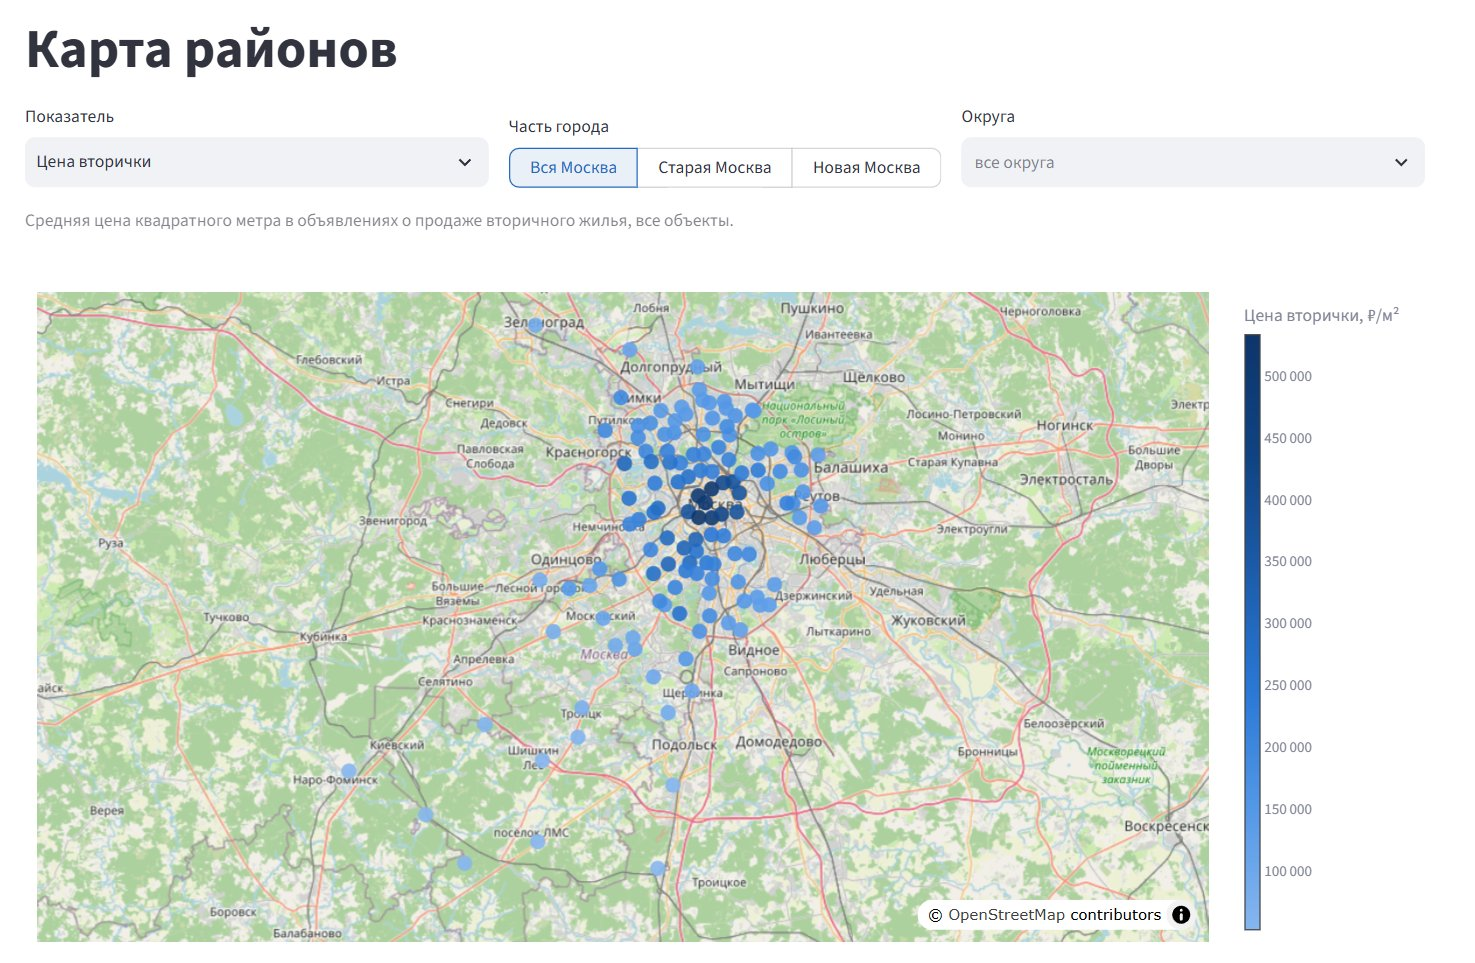
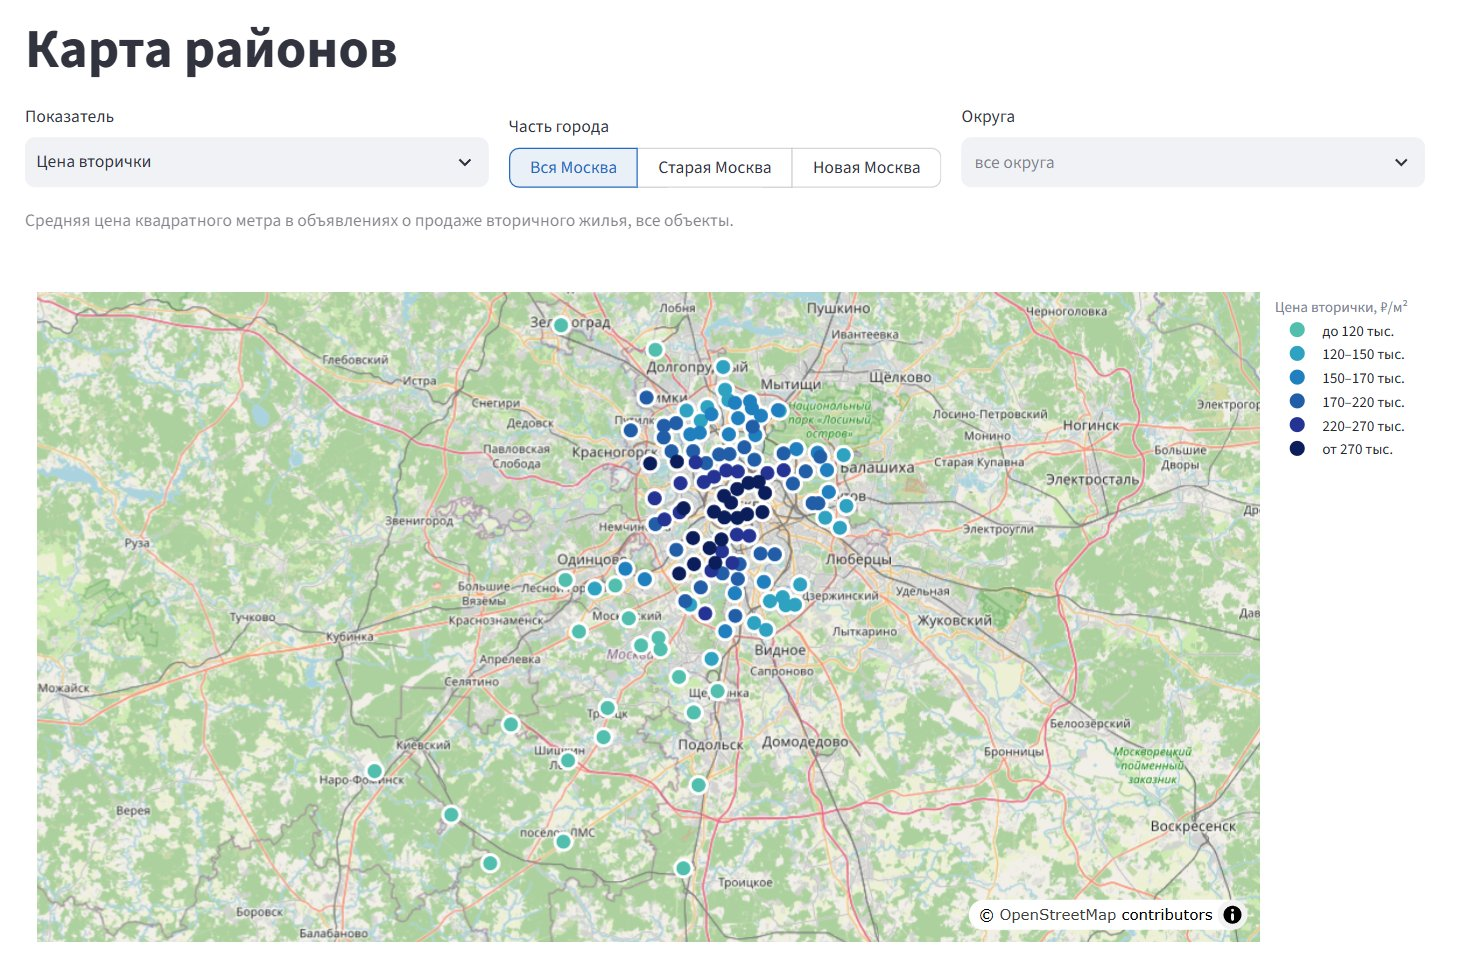
Use balanced colour classes on the district map
Six quantile classes with round bounds instead of a continuous scale stretched by a few expensive central districts; legend with ranges, white marker halo.

diff --git a/dashboard/charts.py b/dashboard/charts.py
@@ -3,14 +3,15 @@
 
 Правила оформления общие для всех графиков:
 - старая и Новая Москва всегда одного и того же цвета (PART_COLORS), на любой странице
-- величина на карте — одна синяя шкала от светлого к тёмному
+- величина на карте — классы с примерно равным числом районов, от бирюзового к тёмно-синему
 - одна ось Y на график: разные единицы измерения — разные графики, а не вторая ось
 - у каждой точки подсказка при наведении; таблица с теми же числами — на странице рядом
 """
 
 import plotly.graph_objects as go
 
-from dashboard.data import METRICS, NEUTRAL, PART_COLORS, PARTS, SEQUENTIAL, fmt_num
+from dashboard.data import (CLASS_COLORS, METRICS, NEUTRAL, PART_COLORS, PARTS, assign_classes,
+                            class_labels, fmt_num)
 
 MOSCOW_CENTER = {'lat': 55.60, 'lon': 37.40}
 
@@ -40,34 +41,47 @@ def _digits(metric):
     return 1 if metric in ('payback_years', 'newbuild_premium_pct', 'to_center_km') else 0
 
 
-def district_map(districts, metric):
-    """Районы точками на карте, цвет — значение метрики; районы без значения серые"""
-    digits = _digits(metric)
-    has_value = districts[metric].notna()
-    fig = go.Figure()
+def district_map(districts, metric, edges):
+    """
+    Районы точками на карте, цвет — класс значения метрики
 
-    for subset, is_empty in [(districts[~has_value], True), (districts[has_value], False)]:
+    edges — границы классов, посчитанные по всем районам (class_edges), а не по
+    отфильтрованным: при смене фильтра район сохраняет свой цвет. Точное значение —
+    в подсказке; щелчок по классу в легенде прячет или показывает его точки
+    """
+    digits = _digits(metric)
+    classes = assign_classes(districts[metric], edges)
+    labels = class_labels(edges)
+    step = (len(CLASS_COLORS) - 1) / max(len(labels) - 1, 1)
+    colors = [CLASS_COLORS[round(i * step)] for i in range(len(labels))]
+
+    groups = [(districts[classes.isna()], NEUTRAL, 'нет новостроек')]
+    groups += [(districts[classes == i], colors[i], labels[i]) for i in range(len(labels))]
+
+    fig = go.Figure()
+    # белая подложка под каждой точкой — чтобы точки читались на пёстрой карте
+    fig.add_trace(go.Scattermap(
+        lat=districts['lat'], lon=districts['lon'], mode='markers',
+        marker=dict(size=17, color='white'), hoverinfo='skip', showlegend=False,
+    ))
+    for subset, color, name in groups:
         if subset.empty:
             continue
         values = subset[metric].map(lambda v: fmt_num(v, digits))
-        customdata = list(zip(subset['okrug_ru'], subset['moscow_part'], values))
-        marker = dict(size=13, opacity=0.9)
-        if is_empty:
-            marker['color'] = NEUTRAL
-        else:
-            marker.update(color=subset[metric], colorscale=SEQUENTIAL,
-                          colorbar=dict(title=_metric_title(metric), thickness=12, tickformat=',~f'))
         fig.add_trace(go.Scattermap(
-            lat=subset['lat'], lon=subset['lon'], mode='markers', marker=marker,
-            text=subset['name'], customdata=customdata,
-            name='нет данных' if is_empty else METRICS[metric][0],
+            lat=subset['lat'], lon=subset['lon'], mode='markers',
+            marker=dict(size=12, color=color), name=name,
+            text=subset['name'], customdata=list(zip(subset['okrug_ru'], subset['moscow_part'], values)),
             hovertemplate='<b>%{text}</b> · %{customdata[0]}<br>%{customdata[1]}<br>'
                           + METRICS[metric][0] + ': %{customdata[2]} ' + METRICS[metric][1]
                           + '<extra></extra>',
         ))
 
     fig.update_layout(map=dict(style='open-street-map', center=MOSCOW_CENTER, zoom=7.9))
-    return _layout(fig, height=560, legend=not has_value.all())
+    _layout(fig, height=560)
+    fig.update_layout(legend=dict(orientation='v', yanchor='top', y=1, xanchor='left', x=1.01,
+                                  title=dict(text=_metric_title(metric)), itemsizing='constant'))
+    return fig
 
 
 def district_ranking(districts, metric, top_n, highest=True):

diff --git a/dashboard/data.py b/dashboard/data.py
@@ -20,7 +20,11 @@ PARTS = [OLD, NEW]
 # дальтонизма и контрастны на светлом фоне; тема дашборда закреплена светлой
 PART_COLORS = {OLD: '#2a78d6', NEW: '#eb6834'}
 NEUTRAL = '#898781'
-SEQUENTIAL = ['#86b6ef', '#5598e7', '#2a78d6', '#1c5cab', '#104281', '#0d366b']
+# классы карты: соседние оттенки от бирюзового к тёмно-синему. Один оттенок на шесть
+# ступеней на пёстрой подложке почти не различался; переход через соседние оттенки
+# при подписанной легенде — допустимое исключение. Проверено валидатором палитры:
+# яркость растёт монотонно, соседние ступени различимы, светлая заметна на белом
+CLASS_COLORS = ['#52bfae', '#2fa2c1', '#1f7fbf', '#225ea8', '#253494', '#0b1d5a']
 
 # метрики районов: колонка -> (название, единица, пояснение для читателя)
 METRICS = {
@@ -73,6 +77,58 @@ def fmt_num(value, digits=0):
     if pd.isna(value):
         return '—'
     return f'{value:,.{digits}f}'.replace(',', ' ').replace('.', ',')
+
+
+def _round_edge(value):
+    """Граница класса «круглым» числом: 131 245 -> 130 000, 16.43 -> 16.4"""
+    if abs(value) >= 100:
+        magnitude = 10 ** (len(str(int(abs(value)))) - 2)
+        return round(value / magnitude) * magnitude
+    return round(value, 1)
+
+
+def class_edges(values, n_classes=6):
+    """
+    Внутренние границы классов для карты: в каждом классе примерно поровну районов
+
+    Границы по квантилям, а не равными шагами: цены распределены с длинным хвостом
+    (десяток дорогих районов центра), и при равных шагах почти весь город попал бы
+    в один-два нижних класса. Границы округляются до круглых чисел; совпавшие после
+    округления схлопываются, так что классов может выйти чуть меньше
+    """
+    quantiles = values.dropna().quantile([i / n_classes for i in range(1, n_classes)])
+    edges = []
+    for q in quantiles:
+        edge = _round_edge(q)
+        if not edges or edge > edges[-1]:
+            edges.append(edge)
+    return edges
+
+
+def class_labels(edges):
+    """
+    Подписи классов для легенды: «до 120 тыс.», «120–150 тыс.», …, «от 270 тыс.»
+
+    «тыс.» — только когда все границы от 10 000: у аренды (сотни рублей) подписи
+    вида «870 – 1 тыс.» читались бы хуже полных чисел
+    """
+    in_thousands = min(edges) >= 10_000
+    scale, suffix = (1000, ' тыс.') if in_thousands else (1, '')
+
+    def num(value):
+        value = value / scale
+        return fmt_num(value, 0 if float(value).is_integer() else 1)
+
+    labels = [f'до {num(edges[0])}{suffix}']
+    labels += [f'{num(a)}–{num(b)}{suffix}' for a, b in zip(edges, edges[1:])]
+    labels.append(f'от {num(edges[-1])}{suffix}')
+    return labels
+
+
+def assign_classes(values, edges):
+    """Номер класса для каждого значения (0 — самый низкий), NaN остаётся NaN"""
+    return pd.cut(values, [-float('inf')] + list(edges) + [float('inf')],
+                  labels=False, right=False)
 
 
 def styled_table(df, digits, na_text):

diff --git a/tests/test_dashboard.py b/tests/test_dashboard.py
@@ -13,7 +13,7 @@ import pytest
 from streamlit.testing.v1 import AppTest
 
 from dashboard.data import (
-    MART_DIR, NEW, OLD, fmt_num, plural_ru, styled_table, meta_dict, part_monthly_median,
+    MART_DIR, NEW, OLD, assign_classes, class_edges, class_labels, fmt_num, plural_ru, styled_table, meta_dict, part_monthly_median,
     part_summary, prepare_district_month, prepare_districts, to_index,
 )
 
@@ -38,6 +38,27 @@ def test_styled_table_explains_missing_values():
     assert '12,3' in html and '123 456' in html
     assert html.count('нет новостроек') == 2
     assert 'None' not in html and 'nan' not in html
+
+
+def test_map_classes_are_balanced_and_round(districts):
+    """На карте в каждом классе примерно поровну районов, границы — круглые числа"""
+    edges = class_edges(districts['avg_price_sqm_all'])
+    assert edges == sorted(set(edges)) and len(edges) == 5
+    assert all(e % 10_000 == 0 for e in edges)
+    counts = assign_classes(districts['avg_price_sqm_all'], edges).value_counts()
+    assert counts.min() >= 0.5 * len(districts) / 6
+
+
+def test_map_classes_keep_missing_values_empty(districts):
+    edges = class_edges(districts['newbuild_premium_pct'])
+    classes = assign_classes(districts['newbuild_premium_pct'], edges)
+    assert classes.isna().sum() == districts['newbuild_premium_pct'].isna().sum()
+
+
+def test_class_labels():
+    assert class_labels([120_000, 150_000]) == ['до 120 тыс.', '120–150 тыс.', 'от 150 тыс.']
+    assert class_labels([870, 1000]) == ['до 870', '870–1 000', 'от 1 000']
+    assert class_labels([15.3, 17]) == ['до 15,3', '15,3–17', 'от 17']
 
 
 def test_plural_ru():

diff --git a/app_pages/map.py b/app_pages/map.py
@@ -1,7 +1,7 @@
 import streamlit as st
 
 from dashboard.charts import district_map, district_ranking
-from dashboard.data import METRICS, PARTS, plural_ru, styled_table
+from dashboard.data import METRICS, PARTS, class_edges, plural_ru, styled_table
 from dashboard.loaders import load_districts
 
 districts = load_districts()
@@ -32,7 +32,11 @@ if missing:
     st.caption(f'Серые точки — {missing} {plural_ru(missing, "район", "района", "районов")}, где показатель '
                'не считается: там нет ни одного объявления новостройки.')
 
-st.plotly_chart(district_map(view, metric), config={'scrollZoom': True})
+st.plotly_chart(district_map(view, metric, class_edges(districts[metric])), config={'scrollZoom': True})
+st.caption('Цвет — один из шести классов, в каждом примерно поровну районов Москвы: так видны различия '
+           'и среди обычных районов, а не только между центром и окраиной. Границы классов общие для '
+           'всего города и не меняются от фильтров. Точное значение — при наведении на точку; щелчок '
+           'по классу в легенде скрывает или показывает его.')
 
 st.subheader('Рейтинг районов')
 with st.container(horizontal=True, vertical_alignment='bottom'):

diff --git a/README.md b/README.md
@@ -116,7 +116,7 @@ Moscow_rent_analysis/
 
 ## Визуализации
 
-**Дашборд: карта районов.** Любой из семи показателей на карте Москвы, фильтры по части города и округам, рейтинг районов — [открыть дашборд](https://moscow-rent-analysis.streamlit.app).
+**Дашборд: карта районов.** Любой из семи показателей на карте Москвы — шесть цветовых классов, в каждом примерно поровну районов, — фильтры по части города и округам, рейтинг районов — [открыть дашборд](https://moscow-rent-analysis.streamlit.app).
 
 ![Карта районов в дашборде](output/figures/dashboard_map.jpg)
 
